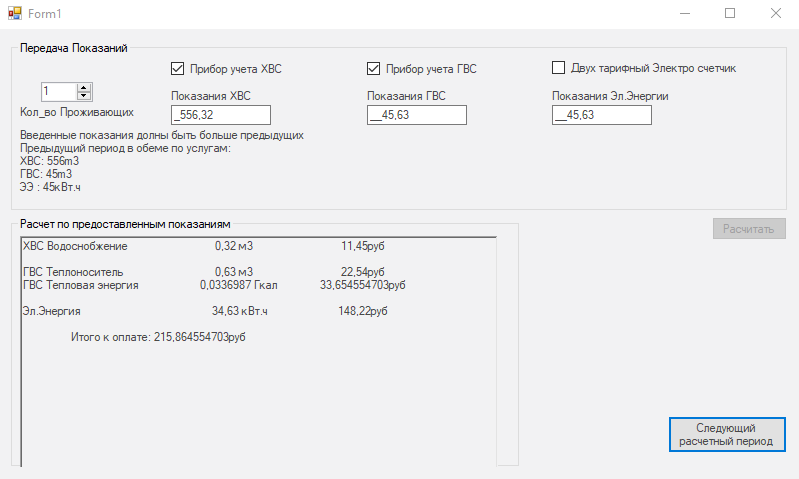
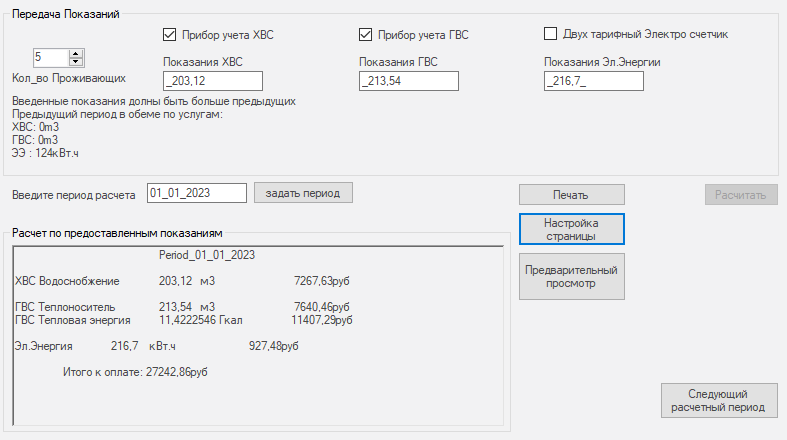
фикс

diff --git a/view/Form1.cs b/view/Form1.cs
@@ -21,6 +21,7 @@ namespace Calculation_public_services
         public Form1()
         {
             InitializeComponent();
+            
         }
         private void checkBoxCold_CheckedChanged(object sender, EventArgs e)
         {
@@ -63,20 +64,20 @@ namespace Calculation_public_services
                                         "Предыдущий период в обеме по услугам:\n" +
                                         "ХВС : {0}m3\n" +
                                         "ГВС : {1}m3\n" +
-                                        "ЭЭ_Д: {2}кВт.ч" +
-                                        "ЭЭ_Н: {3}кВт.ч", val[0], val[2], val[1], val[3]);
+                                        "ЭЭ_Д: {2}кВт.ч\n" +
+                                        "ЭЭ_Н: {3}кВт.ч", val[0], val[3], val[1], val[2]);
 
                 if (checkBoxCold.Checked && val[0] > Convert.ToDecimal(TextBoxCold.Text)) 
                 {
                     TextBoxRezult.Text = "Неверные показания ХВС пожалуйста введите коректные данные";
                 }
                 
-                else if  (checkBoxHot.Checked && val[2] > Convert.ToDecimal(TextBoxHot.Text)) {
+                else if  (checkBoxHot.Checked && val[3] > Convert.ToDecimal(TextBoxHot.Text)) {
                     TextBoxRezult.Text = "Неверные показания ГВС пожалуйста введите коректные данные";
                 }
                 
                 else if( val[1] > Convert.ToDecimal(TextBoxElectric.Text) ||
-                    val[3] > Convert.ToDecimal(TextBoxElectric_night.Text))
+                    val[2] > Convert.ToDecimal(TextBoxElectric_night.Text))
                 {
                     TextBoxRezult.Text = "Неверные показания ЭЭ пожалуйста введите коректные данные";
                 }
@@ -87,8 +88,8 @@ namespace Calculation_public_services
                 labelInfo.Text = string.Format("Введенные показания долны быть больше предыдущих\n" +
                                     "Предыдущий период в обеме по услугам:\n" +
                                     "ХВС: {0}m3\n" +
-                                    "ГВС: {1}m3\n" +
-                                    "ЭЭ : {2}кВт.ч", val[0], val[2], val[1]);
+                                    "ГВС: {2}m3\n" +
+                                    "ЭЭ : {1}кВт.ч", val[0], val[1], val[2]);
 
                 if (checkBoxCold.Checked && val[0] > Convert.ToDecimal(TextBoxCold.Text))
                 {

diff --git a/view_model/View_model.cs b/view_model/View_model.cs
@@ -124,7 +124,7 @@ namespace Calculation_public_services
             {
                 decimal val = 0;
                 All_Volume all_ = new All_Volume(n);
-                if (n == 2 && electric_night!=null)
+                if (n == 2 && caunter_electric)
                 {
                     all_.Get_Volume_Total_dB(n, out val, "volume_dey");
                     return_vale_.Add(val);
